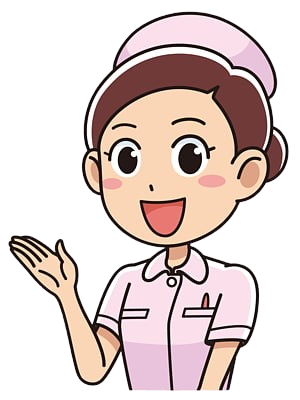
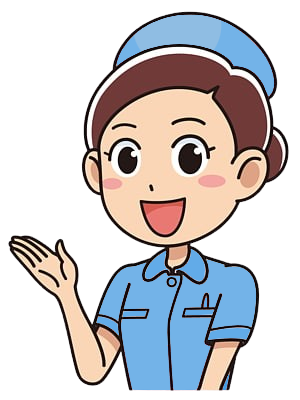
fixed schedules font + nurse color

Changed region(s): [[0.33, 0.63, 0.87, 0.99], [0.39, 0.03, 0.93, 0.24], [0.75, 0.93, 0.78, 0.99]]

diff --git a/templates/patient/schedule.html b/templates/patient/schedule.html
@@ -22,7 +22,7 @@
       
     <div id="home-container" style="margin-top: 50px;">
         <div id="home" class="container-fluid" >
-            <h1 class="title-opening">Schedules</h1>
+            <h1 class="title-opening" style="font-size: 30px;">Schedules</h1>
         </div>
          
     </div>

diff --git a/static/assets/css/chatbotpage.css b/static/assets/css/chatbotpage.css
@@ -144,3 +144,12 @@ a.white{
   }
 }
 
+#table{
+     width: 60%;
+}
+
+@media all and (max-width: 1300px){
+     #table {
+          width: 95%;
+     }
+}
